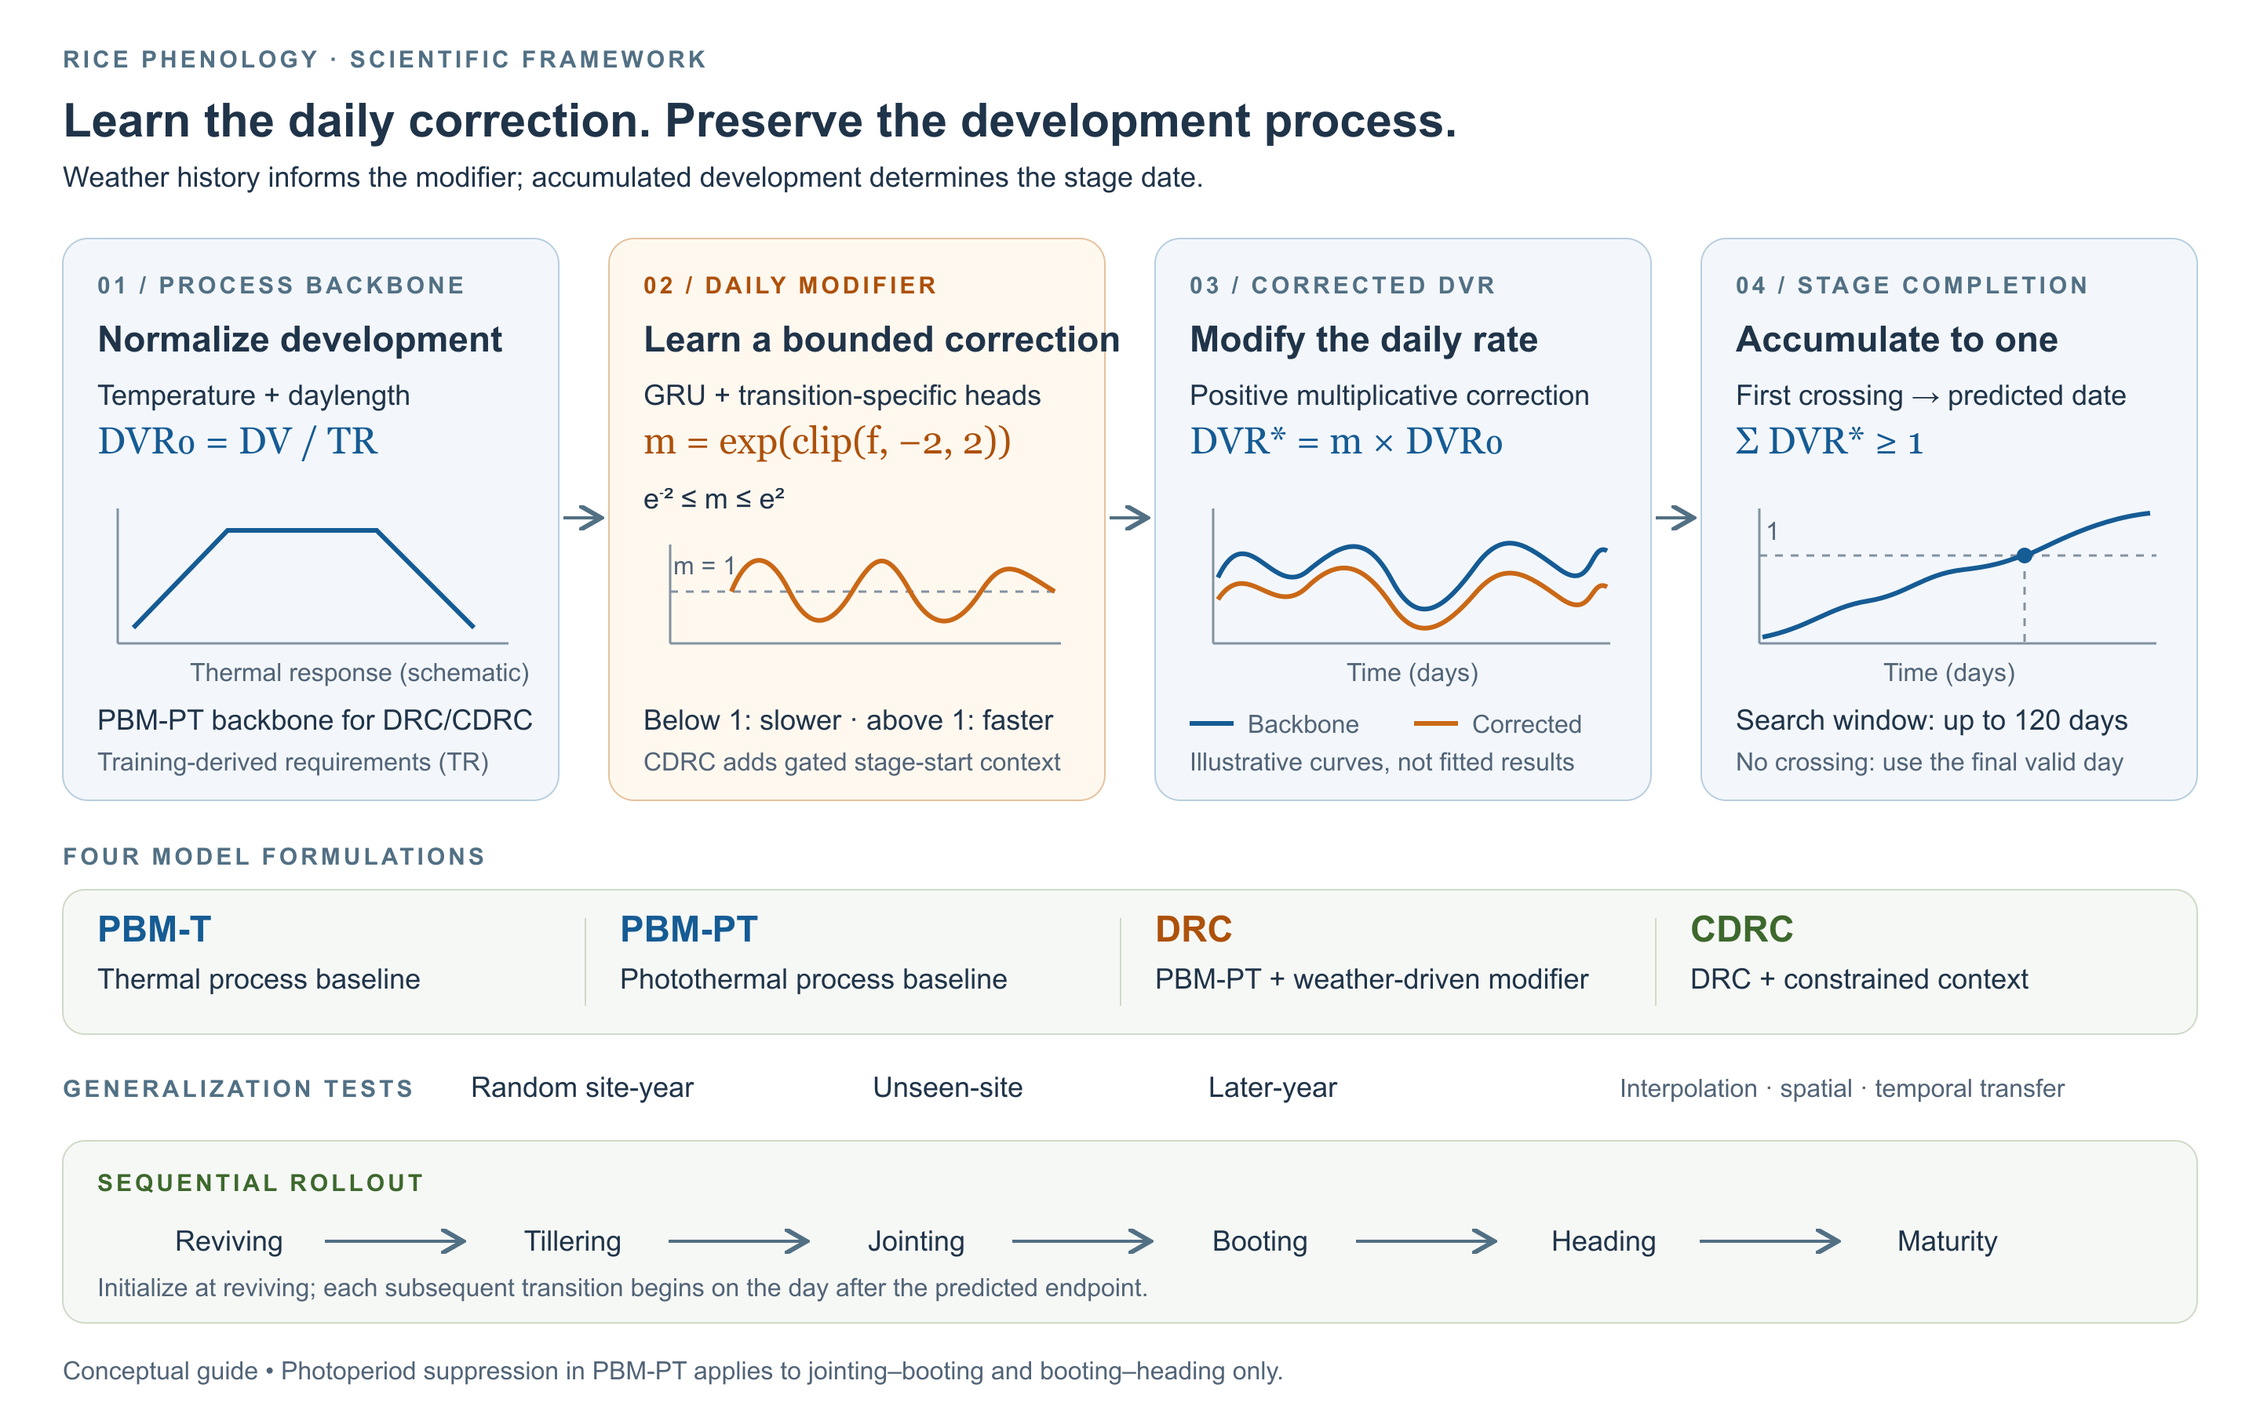
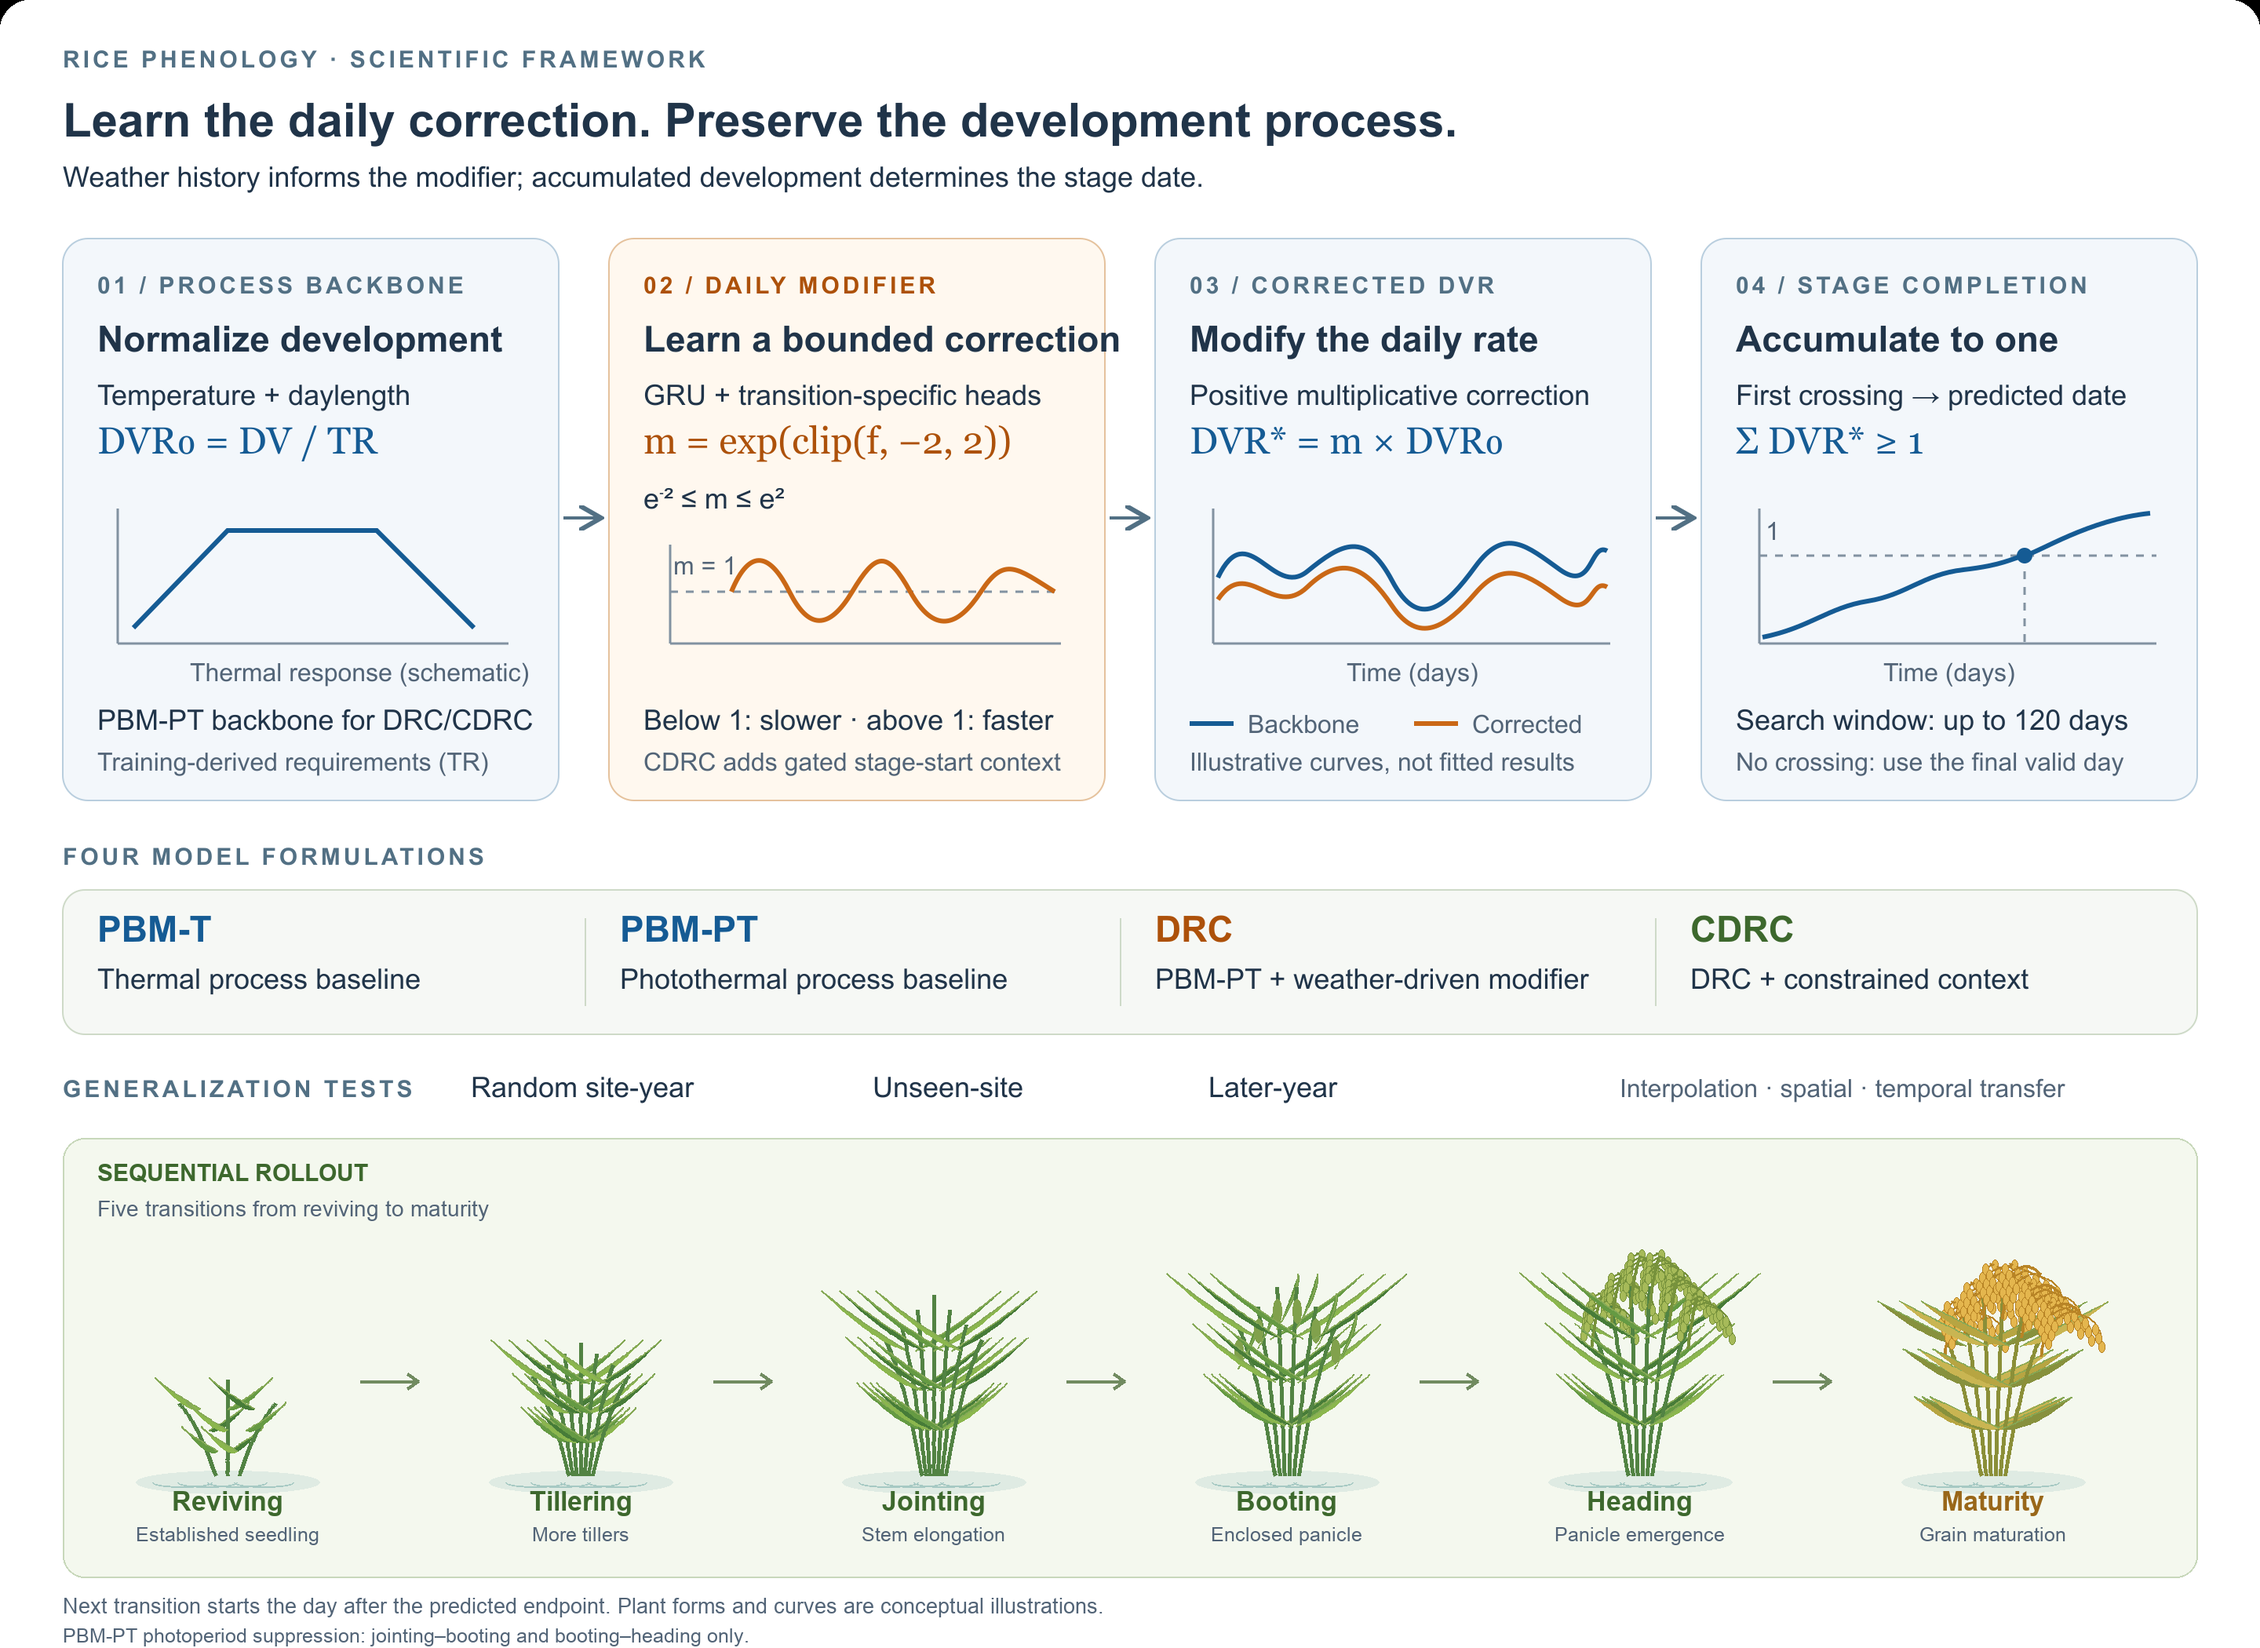
docs: illustrate rice growth stages in framework PNG

diff --git a/README.md b/README.md
@@ -6,7 +6,7 @@ This repository provides the scientific models, shared rollout logic, evaluation
 
 ![Scientific framework: a bounded learned modifier corrects PBM-PT daily development rates before accumulation to unit progress; four models are evaluated through sequential rollout and three generalization tasks.](docs/assets/scientific-framework.png)
 
-*Conceptual framework. DRC and CDRC correct the PBM-PT backbone with a modifier bounded by `[e^-2, e^2]`. Curves are schematic illustrations, not experimental results. [Open the full-size figure](docs/assets/scientific-framework.png).*
+*Conceptual framework. DRC and CDRC correct the PBM-PT backbone with a modifier bounded by `[e^-2, e^2]`. Plant forms illustrate the six rollout stages; plants and curves are schematic, not experimental results. [Open the full-size figure](docs/assets/scientific-framework.png).*
 
 ## Overview
 
